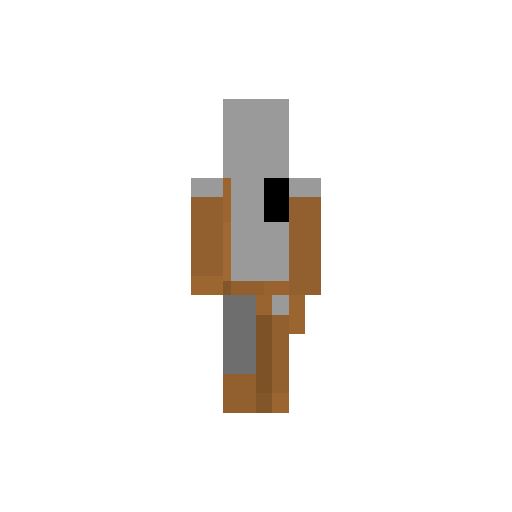
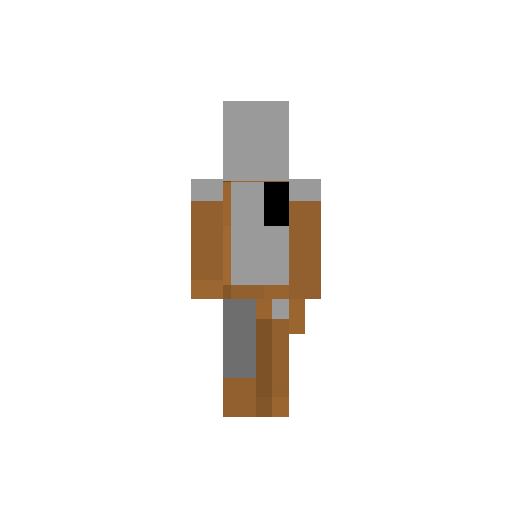
fix(paint): pack_box_uv 自动扩容后位图尺寸 ≠ UV 空间,导致上色整体错位
真机复现:10 个立方体的工程打包后 texture_size=[16,256],
但画布被 max() 撑到 64 宽(原意是不缩小画布),Project.texture_width 却是 16。
上色时 scale = 位图宽/UV 宽 = 64/16 = 4 → 涂到画布外 → 模型半个身子全白
(EMPTY_FACE_TEXTURE)。改成把画布**精确**设为 needW×needH(先拷贝旧像素),
顺手自愈历史上已经错位的工程。

顺带:max_size 现在是硬上限,auto_resize:false 时也生效(原来只在扩容分支检查)。

回归:live-test case 9 增加断言「位图宽高 == get_uv_layout 的 texture_size」。

diff --git a/packages/plugin/src/tools/paint.ts b/packages/plugin/src/tools/paint.ts
@@ -236,6 +236,13 @@ export const paintTools: Record<string, ToolHandler> = {
             "E_INVALID_PARAM",
             `Packed UV extent ${used[0]}x${used[1]} exceeds atlas ${texW}x${texH}; enable auto_resize.`,
           );
+        // max_size 是硬上限:auto_resize:false 时也要管,否则这个参数有一半情况下形同虚设
+        const maxSize = args?.max_size ?? 1024;
+        if (used[0] > maxSize || used[1] > maxSize)
+          throw new CommandError(
+            "E_INVALID_PARAM",
+            `Packed UV extent ${used[0]}x${used[1]} exceeds max_size ${maxSize}.`,
+          );
         if (args?.auto_resize !== false) {
           let needW = Math.max(texW, used[0]);
           let needH = Math.max(texH, used[1]);
@@ -243,7 +250,6 @@ export const paintTools: Record<string, ToolHandler> = {
             needW = nextPowerOfTwo(needW);
             needH = nextPowerOfTwo(needH);
           }
-          const maxSize = args?.max_size ?? 1024;
           if (needW > maxSize || needH > maxSize)
             throw new CommandError(
               "E_INVALID_PARAM",
@@ -257,13 +263,16 @@ export const paintTools: Record<string, ToolHandler> = {
               Project.texture_height = texH;
             }
             texture?.edit((ctx, canvas) => {
-              if (canvas.width >= texW && canvas.height >= texH) return;
+              // 位图必须**等于** UV 空间。原来写成 max(canvas, need):
+              // 打包把 64 宽的画布留在 64、却把 Project.texture_width 设成 16,
+              // 于是上色时 scale=位图宽/UV宽=4,画面涂到画布外 —— 半个模型全白。
+              if (canvas.width === texW && canvas.height === texH) return;
               const previous = document.createElement("canvas");
               previous.width = canvas.width;
               previous.height = canvas.height;
               previous.getContext("2d")?.drawImage(canvas, 0, 0);
-              canvas.width = Math.max(canvas.width, texW);
-              canvas.height = Math.max(canvas.height, texH);
+              canvas.width = texW;
+              canvas.height = texH;
               ctx.imageSmoothingEnabled = false;
               ctx.clearRect(0, 0, canvas.width, canvas.height);
               ctx.drawImage(previous, 0, 0);
